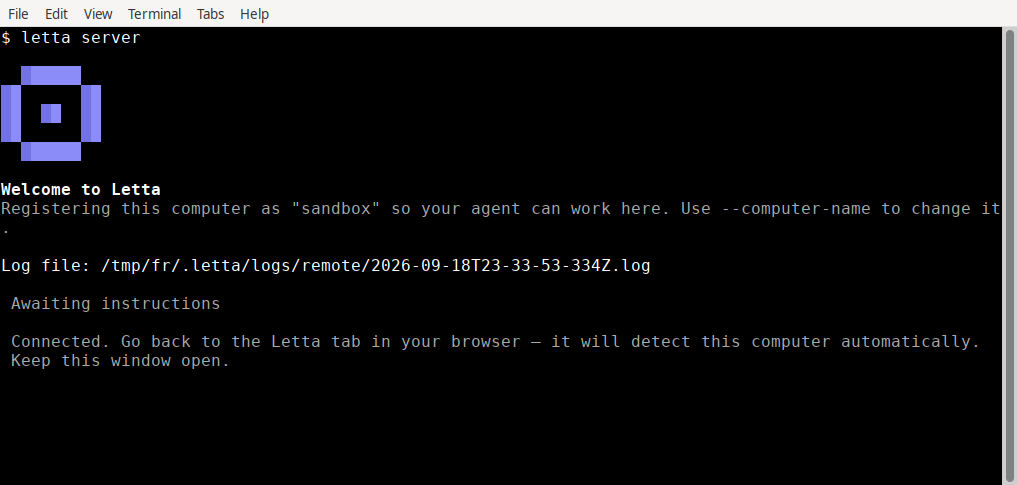
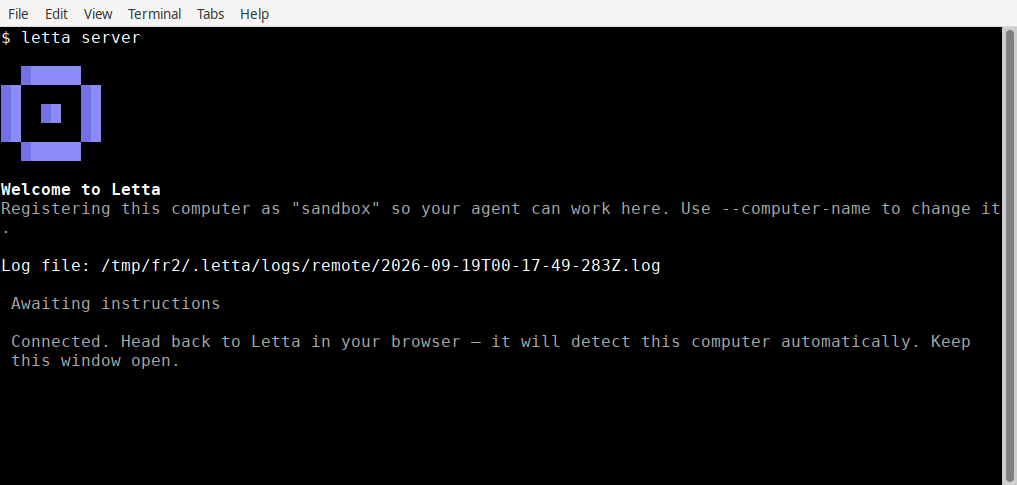
fix(listener): drop the browser-tab assumption from the first-run footer
Review pointed out that a first registration does not guarantee a browser
tab exists: a developer with LETTA_API_KEY exported who runs `letta server`
by hand never opened one. Reword the footer as an instruction ("Head back
to Letta in your browser") rather than a claim about a specific tab. Any
first `letta server` is in service of a flow in Letta that detects the
listener on its own, so the direction holds for onboarding, the computer
picker, and the hand-typed case alike.

Changed region(s): [[0.0, 0.6804, 0.9754, 0.7732], [0.1524, 0.5258, 0.6706, 0.5567]]

diff --git a/src/cli/components/ListenerStatusUI.tsx b/src/cli/components/ListenerStatusUI.tsx
@@ -6,10 +6,10 @@ interface ListenerStatusUIProps {
   connectionId: string;
   envName: string;
   /**
-   * First registration on this computer (typically pasted from onboarding).
-   * The welcome banner above already named the computer, and the user is
-   * mid-flow in a browser tab that detects the listener on its own, so the
-   * footer points them back there instead of at the agent computer picker.
+   * First registration on this computer. The welcome banner above already
+   * named it, and a first `letta server` is always in service of a flow in
+   * Letta (onboarding, the computer picker) that detects the listener on its
+   * own, so the footer points back at Letta rather than at the picker.
    */
   isFirstRun?: boolean;
   onReady: (callbacks: {
@@ -76,8 +76,8 @@ export function ListenerStatusUI(props: ListenerStatusUIProps) {
       <Box>
         {isFirstRun ? (
           <Text dimColor>
-            Connected. Go back to the Letta tab in your browser — it will detect
-            this computer automatically. Keep this window open.
+            Connected. Head back to Letta in your browser — it will detect this
+            computer automatically. Keep this window open.
           </Text>
         ) : (
           <Text dimColor>
